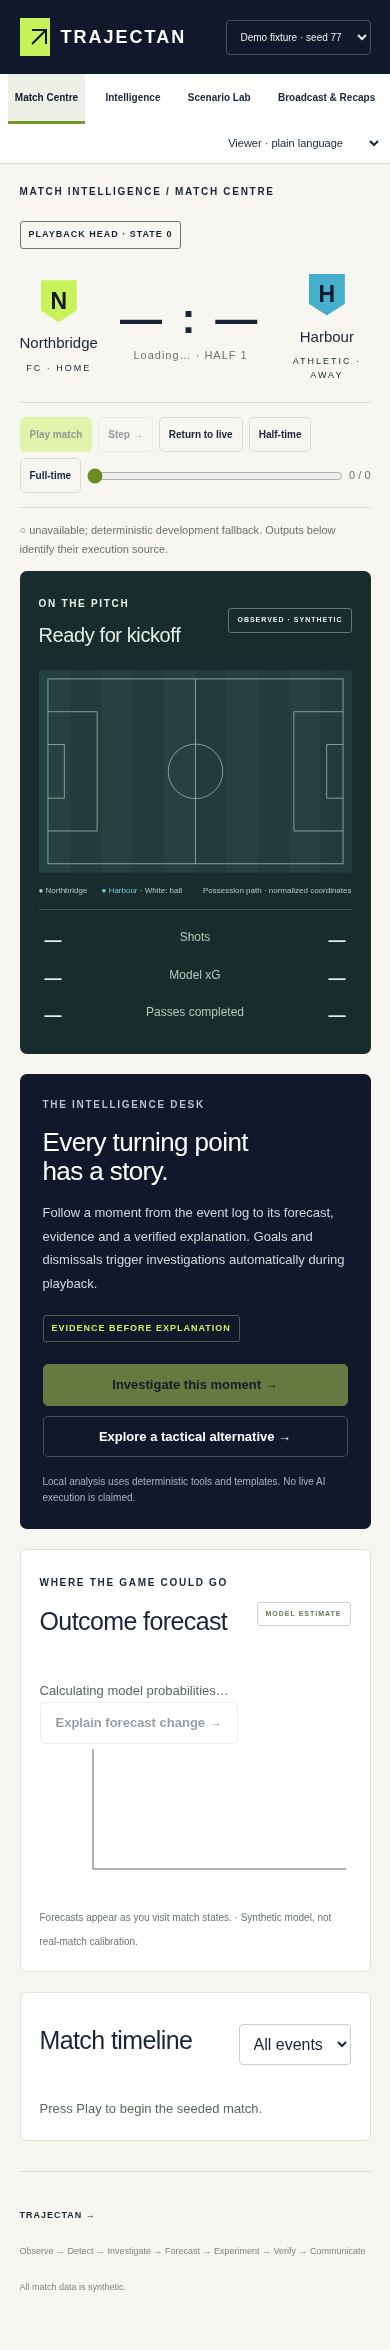
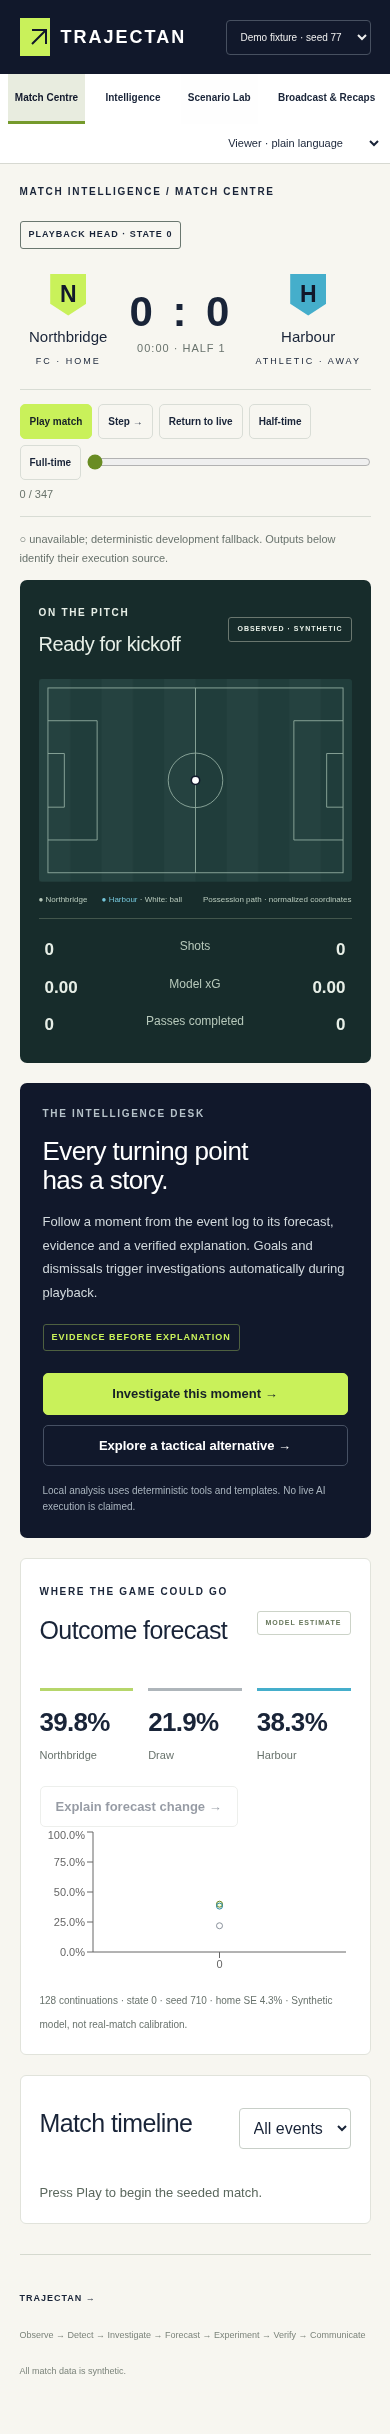
Fix checkpoint loading race and preserve Foundry preflight evidence

diff --git a/frontend/e2e/journey.spec.ts b/frontend/e2e/journey.spec.ts
@@ -93,8 +93,18 @@ test("playback, historical cursor, fixture reset and responsive layout", async (
 test("attribution intervals and alternate factor order remain reconciled", async ({
   page,
 }) => {
+  // Reproduce cold/remote fixture loading: seeking before events arrive used
+  // to select state zero and leave attribution permanently disabled.
+  await page.route("**/api/matches/26", async (route) => {
+    const response = await route.fetch();
+    await new Promise((resolve) => setTimeout(resolve, 1000));
+    await route.fulfill({ response });
+  });
   await page.goto("/");
+  await expect(page.getByRole("button", { name: "Half-time", exact: true })).toBeDisabled();
+  await expect(page.getByRole("button", { name: "Full-time", exact: true })).toBeDisabled();
   await page.getByRole("button", { name: "Half-time", exact: true }).click();
+  await expect(page.getByText("45:00 · HALF 1")).toBeVisible();
   await page.getByRole("button", { name: "Explain forecast change" }).click();
   await expect(
     page.getByRole("heading", { name: "What moved the home-win forecast?" }),

diff --git a/frontend/src/main.tsx b/frontend/src/main.tsx
@@ -532,13 +532,14 @@ function App() {
             Return to live
           </button>
           <button
+            disabled={!events.length}
             onClick={() =>
               seek(events.find((e) => e.kind === "halftime")?.sequence ?? 0)
             }
           >
             Half-time
           </button>
-          <button onClick={() => seek(events.length)}>Full-time</button>
+          <button disabled={!events.length} onClick={() => seek(events.length)}>Full-time</button>
         </div>
         {error && (
           <div className="error" role="alert">

diff --git a/scripts/verify_foundry.py b/scripts/verify_foundry.py
@@ -7,6 +7,7 @@ import asyncio
 import json
 import os
 import tempfile
+from datetime import datetime, timezone
 from pathlib import Path
 from trajectan.agents import Foundry, Workflow
 from trajectan.domain import initial
@@ -16,6 +17,24 @@ from trajectan.simulation import generate
 
 async def main(output):
     if not os.getenv("FOUNDRY_PROJECT_ENDPOINT"):
+        report = {
+            "recorded_at": datetime.now(timezone.utc).isoformat(),
+            "status": "configuration_blocked",
+            "live_inference_observed": False,
+            "complete_workflow_verified": False,
+            "roles_exercised": [],
+            "failure": {"stage": "preflight", "code": "missing_project_endpoint"},
+            "configuration_present": {
+                name: bool(os.getenv(name))
+                for name in (
+                    "FOUNDRY_PROJECT_ENDPOINT",
+                    "FOUNDRY_MODEL_DEPLOYMENT",
+                    "TRAJECTAN_FOUNDRY_KEY",
+                )
+            },
+        }
+        if output:
+            Path(output).write_text(json.dumps(report, indent=2) + "\n")
         raise SystemExit(
             "Missing FOUNDRY_PROJECT_ENDPOINT for agentgate. Configure server-side identity and network access; do not share keys or tokens in chat."
         )

diff --git a/tests/test_foundry_verification.py b/tests/test_foundry_verification.py
@@ -1,0 +1,27 @@
+"""The opt-in verifier must retain evidence even before inference can start."""
+import asyncio
+import importlib.util
+import json
+from pathlib import Path
+
+import pytest
+
+
+def test_missing_endpoint_preserves_failure_without_secret_values(monkeypatch, tmp_path):
+    path = Path(__file__).parents[1] / 'scripts' / 'verify_foundry.py'
+    spec = importlib.util.spec_from_file_location('verify_foundry', path)
+    module = importlib.util.module_from_spec(spec)
+    spec.loader.exec_module(module)
+    monkeypatch.delenv('FOUNDRY_PROJECT_ENDPOINT', raising=False)
+    monkeypatch.setenv('TRAJECTAN_FOUNDRY_KEY', 'unit-test-sensitive-placeholder')
+    output = tmp_path / 'failure.json'
+    with pytest.raises(SystemExit, match='Missing FOUNDRY_PROJECT_ENDPOINT'):
+        asyncio.run(module.main(str(output)))
+    raw = output.read_text()
+    report = json.loads(raw)
+    assert report['failure']['stage'] == 'preflight'
+    assert report['configuration_present']['TRAJECTAN_FOUNDRY_KEY'] is True
+    assert not report['live_inference_observed']
+    assert not report['complete_workflow_verified']
+    assert report['roles_exercised'] == []
+    assert 'unit-test-sensitive-placeholder' not in raw

diff --git a/docs/VERIFICATION.md b/docs/VERIFICATION.md
@@ -48,3 +48,15 @@ The owner reports an existing succeeded `agentgate` project / `gpt-4.1-mini` dep
 - The template benchmark published validated results for all **3 held-out cases**, seeds 501–503, recorded in `evals/template-baseline.json`. Real single-model and three-role benchmark modes are implemented but have not run against live Foundry.
 - The latest container rebuild was blocked by the platform's automatic-approval-review usage limit and **was not executed**. The earlier successful container result applies to the previous checkpoint only.
 - Runtime readiness was rechecked after the owner updated the cloud configuration. This task still reports revision 1 with no Azure variables, secret bindings or identities. The live verification command correctly stopped at `Missing FOUNDRY_PROJECT_ENDPOINT`, before any network request. See `CLOUD_HANDOFF.md` for the precise new-task procedure and header compatibility check.
+
+## Resumed runtime verification — 27 October 2026
+
+- Foundry live verifier: **blocked before network**, missing `FOUNDRY_PROJECT_ENDPOINT`; model alias and restricted key binding also absent. Safe evidence is retained in `foundry-runtime-check.json`. No successful live inference or cloud Agent Framework execution is claimed.
+- Existing commit `6b714d4` CI run `40518657349`: Python tests and frontend build passed, browser suite failed (3 passed, 1 failed). The attribution journey clicked Half-time before events loaded, selecting state zero. Checkpoint controls now remain disabled while the fixture loads. The regression deliberately delays the fixture response and asserts both disabled controls and the eventual halftime selection.
+- Updated backend suite: **37 passed, 1 skipped in 20.45 seconds**. PostgreSQL integration skipped because this run did not supply `TEST_POSTGRES_URL`. Native Agent Framework SDK tests use stubbed HTTP and establish serialization/controller compatibility only.
+- Frontend TypeScript/Vite production build: passed, 590 modules. The 537 kB bundle-size advisory remains.
+- Fresh production Docker build: passed, image `sha256:66650c56dea0ba5b6acdc0e781436e9f493811c38e35a08a8ce93a9a4414e07b`.
+- Packaged application smoke on loopback port 8004: passed, 347 events, checkpoint 168, published validated local investigation, completed scenario, unchanged historical state and verified recap. Health truthfully reports degraded/local fallback, SQLite and local durable queue, with zero inference calls.
+- Azure read-only preflight: blocked because Azure CLI is unavailable. Deployment template was reviewed; paid provisioning, identity role grants, database egress and public access are still unverified and require the documented owner inputs/approval.
+- The first container browser run passed 3 journeys but timed out waiting 30 seconds for attribution. The delayed-loading assertions and halftime selection passed. A direct follow-up attribution request returned HTTP 200 in 3.18 seconds, with `verified: true` and zero reconciliation residual. Stalled sandbox test processes were stopped before repeating the browser suite; no simulation samples or correctness assertions were reduced.
+- Repeat browser suite against the updated production container: **4 passed in 23.1 seconds**, including delayed fixture loading, attribution intervals/order reconciliation, all four workspaces and fixture isolation. Screenshots refreshed from this passing run.

diff --git a/docs/CLOUD_HANDOFF.md b/docs/CLOUD_HANDOFF.md
@@ -28,3 +28,11 @@ The installed OpenAI client sends that override as **Authorization: Bearer** to 
 The latest Docker rebuild was not executed: automatic approval review could not complete because the platform reported a usage limit. This was not a determination that Docker was unsafe. The previous checkpoint's container smoke test remains valid for that checkpoint; the newest code still needs a fresh container build. Local edits, existing verification results and repository preservation remain available. Do not bypass the approval mechanism.
 
 The current runtime's live verification command stopped at **missing FOUNDRY_PROJECT_ENDPOINT**, before any network request. There is no live authentication success, HTTP error, Azure deployment or public URL to report from this task.
+
+## Resumed verification — 27 October 2026
+
+A fresh status query in this conversation still identifies the **same revision 1 and configuration version above**, with current observations, no configured secrets/runtime variables/outbound identities, and no custom allowed hosts. Publishing configuration has not changed this task's attached instance. Presence-only process checks independently confirm all three expected variables are absent. `docs/foundry-runtime-check.json` preserves the verifier's preflight failure; no HTTP request, authentication rejection, inference receipt, or live agent handoff was observed.
+
+Create a **new task attached to the republished environment**, selecting `development/trajectan-integrated-app` and PR #1. Continuing this conversation has so far retained the old instance. Confirm runtime readiness before running the existing verifier. No key needs to be copied or supplied in chat. Header-injection compatibility cannot be determined without the new binding metadata; no speculative authentication change was made.
+
+The previous Docker usage-limit blocker is resolved: a fresh production image built successfully in this resumed run. Azure CLI remains unavailable here; the read-only preflight exits with that explicit diagnostic. Azure resource group, region, permissions, connectivity and an initial paid spending ceiling remain unconfirmed. No infrastructure was provisioned.
